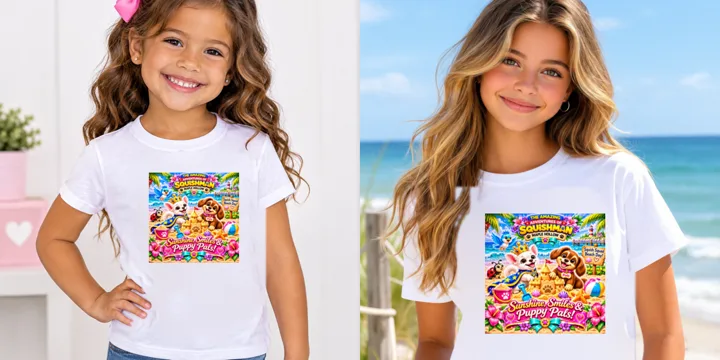
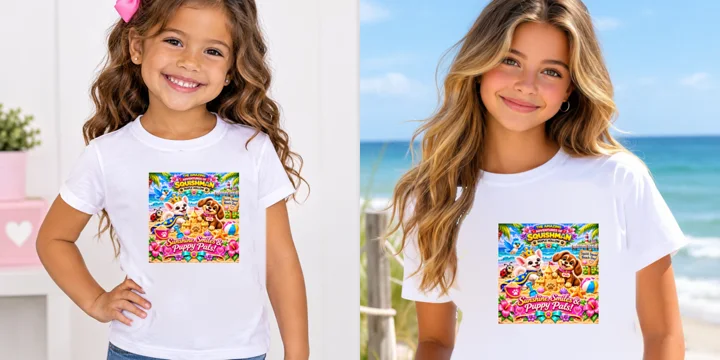
Girls' tee beach photos: smaller designs centered on the shirt
Designs shrink from 360 to 300 px and move to the shirt's measured centre.
The old print is now cleared more widely (fabric only, never skin), and hair
is kept only where it connects to her hair outside the print, so no strands
are clipped and no bits of the old print remain.

Claude-Session: https://claude.ai/code/session_01UWGUUWoCXNBhVHaKnEfjmD

Changed region(s): [[0.6722, 0.5806, 0.8861, 0.9472], [0.6111, 0.4889, 0.6722, 0.5806], [0.6111, 0.6111, 0.6417, 0.6417]]

diff --git a/cartoon-production/scripts/shirt_swap_beach.py b/cartoon-production/scripts/shirt_swap_beach.py
@@ -11,7 +11,7 @@ import sys
 import numpy as np, cv2
 
 photo, design, out = sys.argv[1], sys.argv[2], sys.argv[3]
-WIDTH = int(sys.argv[4]) if len(sys.argv) > 4 else 360
+WIDTH = int(sys.argv[4]) if len(sys.argv) > 4 else 300
 im = cv2.imread(photo).astype(np.float32) / 255
 H, W, _ = im.shape
 hsv = cv2.cvtColor((im * 255).astype(np.uint8), cv2.COLOR_BGR2HSV).astype(np.float32)
@@ -19,18 +19,22 @@ hue, sat, val = hsv[..., 0], hsv[..., 1] / 255, hsv[..., 2] / 255
 yy, xx = np.mgrid[0:H, 0:W]
 
 rect = (xx >= 285) & (xx <= 825) & (yy >= 580) & (yy <= 1205)
-# hair: hair-coloured pixels connected to the hair outside the print box
-hairish = ((hue >= 8) & (hue <= 28) & (sat > 0.18) & (sat < 0.8) & (val > 0.3)).astype(np.uint8)
-n, lab = cv2.connectedComponents(hairish)
-outside_ids = np.unique(lab[(~rect) & (hairish > 0) & (xx < 300) & (yy > 500)])
-hair = np.isin(lab, outside_ids[outside_ids > 0]) & (xx < 330)
+# hair: hair-coloured pixels (lenient, for blond highlights) that connect to her hair outside the
+# print box. Isolated bits of the old print (rainbow, flowers) do not connect, so they get removed.
+hairish = ((hue >= 6) & (hue <= 30) & (sat > 0.07) & (val > 0.25) & (val < 0.985) & (xx < 420)).astype(np.uint8)
+hairish = cv2.morphologyEx(hairish, cv2.MORPH_OPEN, np.ones((2, 2), np.uint8))
+n, lab, stats, _ = cv2.connectedComponentsWithStats(hairish, connectivity=4)
+seed = (hairish > 0) & ((xx < 280) | (yy < 575)) & (yy > 300)
+keep = np.unique(lab[seed]); keep = keep[keep > 0]
+hair = np.isin(lab, keep)
 # old print: anything not plain white fabric inside the box, grown to cover anti-aliasing
 ink = rect & ~hair & ((sat > 0.13) | (val < 0.55))
 mask = cv2.dilate(ink.astype(np.uint8), cv2.getStructuringElement(cv2.MORPH_ELLIPSE, (13, 13)))
 mask = cv2.morphologyEx(mask, cv2.MORPH_CLOSE, cv2.getStructuringElement(cv2.MORPH_ELLIPSE, (41, 41))) > 0
 mask &= rect & ~hair
 
-shirt = (sat < 0.10) & (val > 0.68) & (yy > 470) & (yy < 1420) & (xx > 140) & (xx < 940) & ~mask
+grown_pre = cv2.dilate(mask.astype(np.uint8), cv2.getStructuringElement(cv2.MORPH_ELLIPSE, (41, 41))) > 0
+shirt = (sat < 0.10) & (val > 0.68) & (yy > 470) & (yy < 1420) & (xx > 140) & (xx < 940) & ~grown_pre
 w = shirt.astype(np.float32)
 def nconv(sig):
     d = cv2.GaussianBlur(w, (0, 0), sig)
@@ -40,13 +44,16 @@ coarse, _ = nconv(140)
 trust = np.clip(dfine / 0.3, 0, 1)[..., None]
 est = fine * trust + coarse * (1 - trust)
 grain = np.random.default_rng(3).normal(0, 0.006, (H, W, 1)).astype(np.float32)
-fm = cv2.GaussianBlur(mask.astype(np.float32), (0, 0), 3)[..., None]
+grown = cv2.dilate(mask.astype(np.uint8), cv2.getStructuringElement(cv2.MORPH_ELLIPSE, (41, 41))) > 0
+fabric = (sat < 0.16) & (val > 0.6)  # only plain shirt fabric may be softened, never skin or hair
+grown &= ~hair & (mask | fabric) & (xx >= 255) & (xx <= 860) & (yy >= 560) & (yy <= 1240)
+fm = np.maximum(mask.astype(np.float32), cv2.GaussianBlur(grown.astype(np.float32), (0, 0), 7))[..., None]
 clean = im * (1 - fm) + np.clip(est + grain, 0, 1) * fm
 
 art = cv2.imread(design).astype(np.float32) / 255
 art = cv2.resize(art, (WIDTH, int(art.shape[0] * WIDTH / art.shape[1])), interpolation=cv2.INTER_AREA)
 ah, aw = art.shape[:2]
-x0, y0 = 555 - aw // 2, 660
+x0, y0 = 565 - aw // 2, 690
 roi = clean[y0:y0 + ah, x0:x0 + aw]
 tone = roi / np.clip(cv2.GaussianBlur(roi, (0, 0), 40).mean(axis=(0, 1)), 0.5, 1)
 printed = cv2.GaussianBlur(np.clip(art * np.clip(tone, 0.6, 1.08), 0, 1), (0, 0), 0.6)
